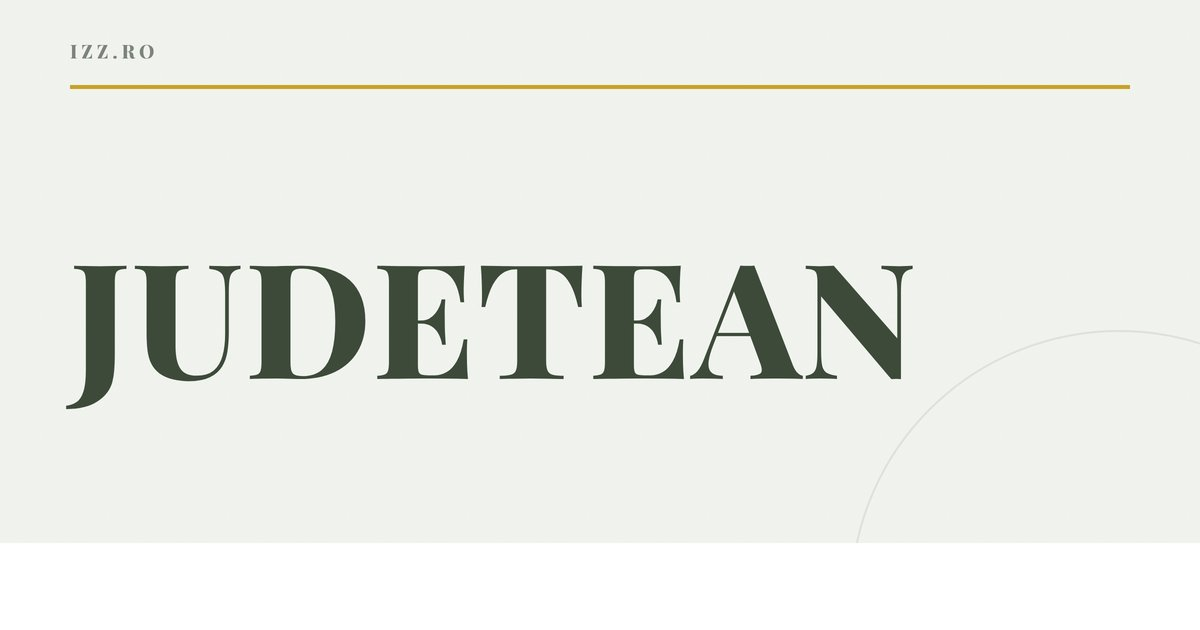
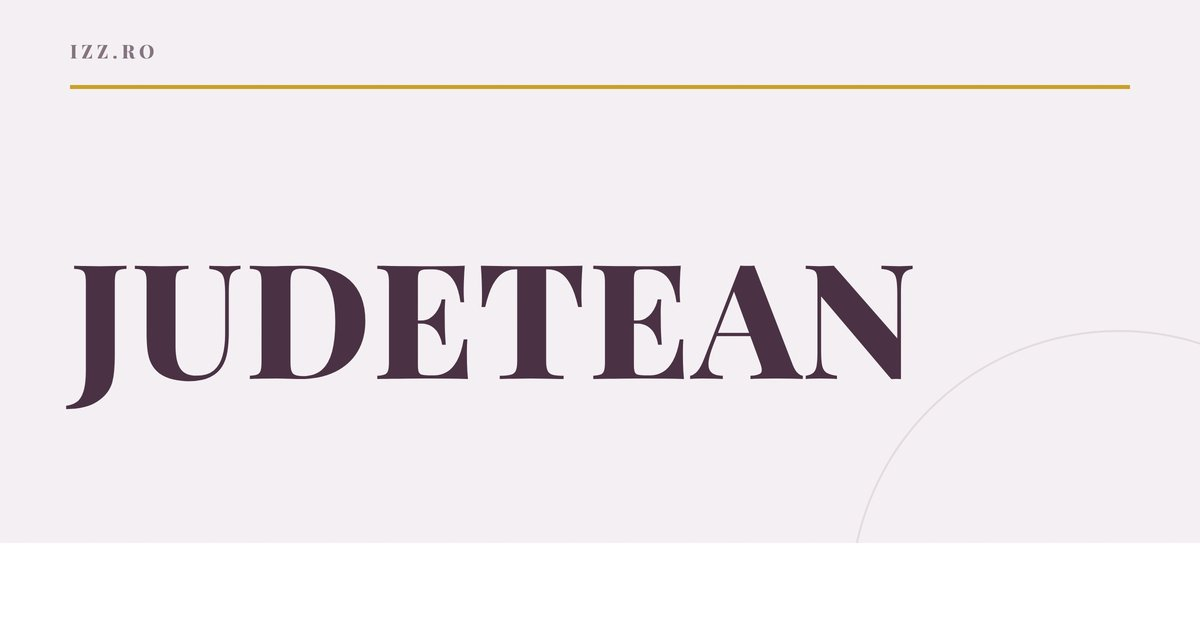
fix(htmlart): semintele de compozitie trec pe SHA-256
Runda a doua pe aceeasi constatare Semgrep, deci reparatia trece de la argument
la cod. Prima incercare a fost un `# nosemgrep` cu justificarea alaturi, si a
esuat MASURAT: semgrep chiar recunoaste suprimarea (SARIF: `suppressions:
[{kind: inSource}]`, constatarea iese din numarul de blocking), dar pastreaza
rezultatul in SARIF, iar GitHub ridica alerta oricum. Botul a re-postat-o pe
linia noua imediat ce am impins. Deci comentariul meu sustinea ceva ce
masuratoarea infirma -- si asta e mai rau decat constatarea in sine.

Reparatia adevarata e in poarta care nu citeste `suppressions` (IZZ-0316), dar
aia e cale protejata (sect. 10). Ce ramane sub controlul codului e algoritmul,
si aici nu costa nimic sa fie cel pe care nimeni nu-l discuta: digestul nu
apara nimic, din el ies doar un index de paleta si unul de sablon.

Ce costa, ca sa nu se re-deschida: semintele noi remixeaza paletele si
sabloanele, deci copertile `media/<aid>.c.jpg` desenate inainte nu se mai
potrivesc cu arta din pagina. Tranzitoriu si autovindecator -- fereastra og e
de ~1.200 de articole (~2 zile), iar `gen_images` prune-uieste copertile iesite
din ea si le deseneaza din nou pe cele intrate; dupa o rotatie completa nimic
nu mai difera. Cele 15 coperti de categorie sunt redesenate in acest commit,
fiindca semnatura lor nu depinde de seed si altfel n-ar fi fost refacute
niciodata.

`art_id()` ramane pe SHA-1 DELIBERAT: acolo digestul e numele fisierului din
[…]

diff --git a/generator/htmlart.py b/generator/htmlart.py
@@ -401,21 +401,32 @@ def _seed(a: dict) -> bytes:
     """Semintele de compozitie ale articolului `a` — sursa unica pentru raster si pentru
     arta desenata in pagina.
 
-    Extrasa aici pe 2026-09-09 din doua motive care coincid. Primul e o invarianta:
-    `build_html` si `stil_inline` TREBUIE sa aleaga aceeasi paleta si acelasi sablon pentru
-    acelasi articol, altfel og:image-ul arata altfel decat pagina pe care o anunta; cu doua
-    copii ale expresiei, invarianta tinea prin coincidenta, nu prin constructie
-    (`tests/test_arta_inline.py` o verifica, dar un test prinde, nu previne).
+    UN SINGUR LOC, fiindca e o invarianta: `build_html` si `stil_inline` TREBUIE sa aleaga
+    aceeasi paleta si acelasi sablon pentru acelasi articol, altfel og:image-ul arata altfel
+    decat pagina pe care o anunta. Cu doua copii ale expresiei, invarianta tinea prin
+    coincidenta (`tests/test_arta_inline.py` o verifica — dar un test prinde, nu previne).
 
-    Al doilea: Semgrep semnaleaza `sha1` ca „insecure hash". Constatarea e reala ca tipar si
-    falsa ca risc AICI — din digest se aleg un fundal si o compozitie, deci o coliziune
-    inseamna „doua stiri seamana", nu o semnatura falsificata; nu exista adversar si nu se
-    verifica nimic. Nu se trece pe SHA-256 fiindca ar remixa TOATE copertile deja comise in
-    `media/` si deja publicate ca og:image, fara niciun castig de securitate. Justificarea
-    sta acum intr-un singur loc, langa singura linie care o cere.
+    SHA-256, nu SHA-1, si nu din superstitie. Aici digestul nu apara nimic: din el ies un
+    index de paleta si unul de sablon, deci o coliziune inseamna „doua stiri seamana", nu o
+    semnatura falsificata. Prima incercare a fost tocmai asta, scrisa ca `# nosemgrep` cu
+    justificarea alaturi — si a esuat MASURAT: semgrep chiar recunoaste suprimarea (SARIF:
+    `suppressions: [{kind: inSource}]`, constatarea iese din numarul de blocking), dar
+    pastreaza rezultatul in SARIF, iar GitHub ridica alerta oricum si botul o re-posteaza pe
+    PR la fiecare atingere a liniei. Reparatia adevarata e in poarta care nu citeste
+    `suppressions` — cale protejata (§10), deci nu a mea (IZZ-0316). Ce ramane sub controlul
+    codului e algoritmul, iar aici nu costa nimic sa fie cel pe care nimeni nu-l discuta.
+
+    Ce a costat schimbarea, ca sa nu se re-deschida: semintele noi remixeaza paletele si
+    sabloanele, deci copertile `media/<aid>.c.jpg` desenate inainte nu se mai potrivesc cu
+    arta din pagina. Tranzitoriu si autovindecator: fereastra og e de ~1.200 de articole
+    (~2 zile), iar `tools/gen_images.py` prune-uieste copertile iesite din ea si le deseneaza
+    din nou pe cele intrate. Dupa o rotatie completa a ferestrei, nimic nu mai difera.
+
+    `art_id()` de mai jos ramane pe SHA-1 DELIBERAT: acolo digestul e NUMELE FISIERULUI din
+    `media/`. Schimbat, ar redenumi peste 12.000 de fisiere comise si ar rupe fiecare imagine
+    deja publicata. Alt uz, alt calcul — nu-l „repara" la pachet cu asta.
     """
-    # nosemgrep: python.lang.security.insecure-hash-algorithms.insecure-hash-algorithm-sha1
-    return hashlib.sha1((a.get("title") or "x").encode()).digest()
+    return hashlib.sha256((a.get("title") or "x").encode()).digest()
 
 
 def build_html(a: dict, cover: bool = False, sablon: str | None = None) -> str:
